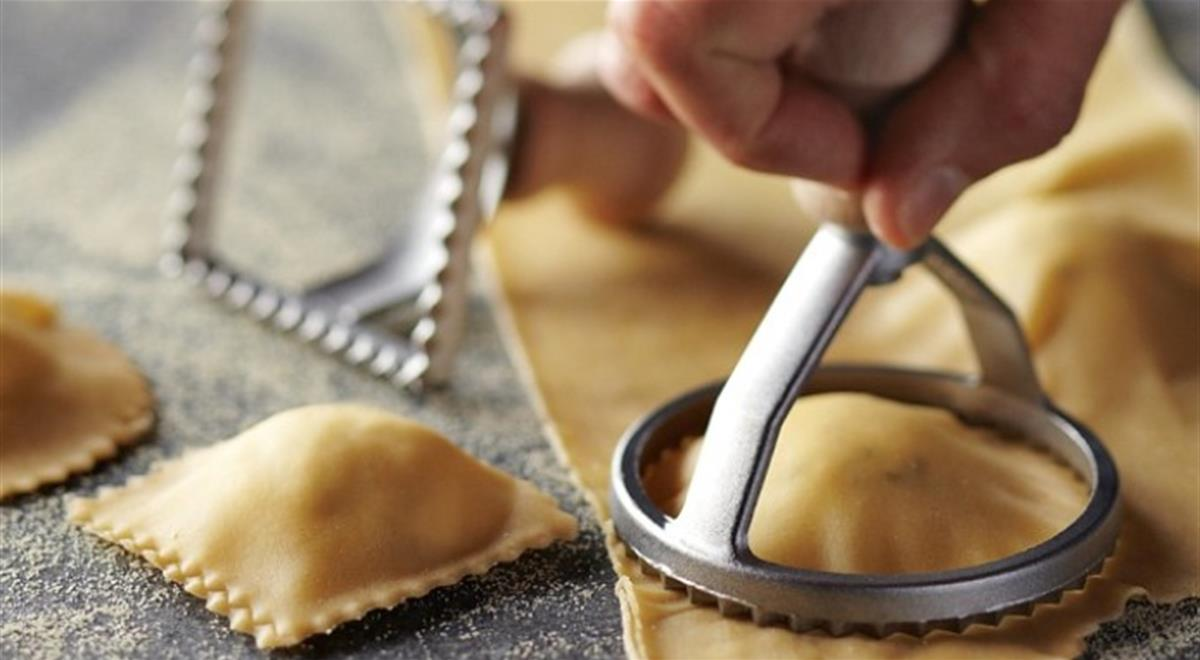
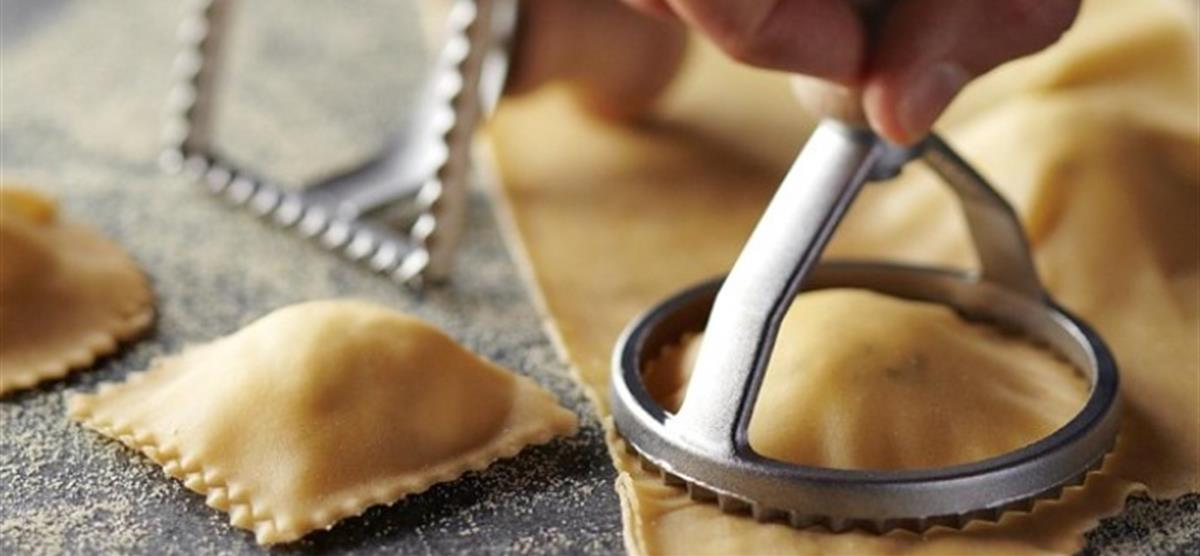
learn more image now full screen

diff --git a/css/learnmore.css b/css/learnmore.css
@@ -7,16 +7,15 @@
 
 @media only screen and (min-width : 771px){
     #learnmore-main{
-		width: 100vw;
-		height: 550px;
 		float: left;
-		overflow: hidden;
+		overflow-x: hidden;
+		width: 100vw;
 	}
 
 	#learnmore-title{
 		font-size: 3.8vw;
 		position: absolute;
-		top: 12vw;
+		top: 15vw;
 		left: 200px;
 		color: white;
 	}
@@ -24,7 +23,7 @@
 	#learnmore-subtitle{
 		position: absolute;
 		width: 500px;
-		top: 24vw;
+		top: 28vw;
 		left: 200px;
 		color:white;
 		font-size: 1.8vw;
@@ -32,8 +31,15 @@
 
 	button#signup-button{
 		position: absolute;
-		top: 35vw;
-		left: 350px;
+		top: 38vw;
+		left: 20vw;
+		text-align: center;
+	}
+
+	img#scroll-down{
+		position: absolute;
+		top: 90vh;
+		left: 0px;
 	}
 
 	#learnmore-features{
@@ -113,22 +119,22 @@
 
 	#learnmore-title{
 		width: 90vw;
-		font-size: 5.5vw;
+		font-size: 6.5vw;
 		position: absolute;
-		top: 18.6vw;
+		top: 36vh;
 		left: 5vw;
 		color: white;
 		text-align: center;
 	}
 
 	#learnmore-subtitle{
-		width: 60vw;
+		width:80vw;
 		text-align: center;
 		position: absolute;
-		top: 38vw;
-		left: 20vw;
+		top: 50vh;
+		left: 10vw;
 		color:white;
-		font-size: 3.5vw;
+		font-size: 4.4vw;
 	}
 
 	button#signup-button{
@@ -138,6 +144,13 @@
 		width: 60vw;
 		margin-left: 20vw;
 		font-size: 4vw;
+		display: none;
+	}
+
+	img#scroll-down{
+		/*display: none;*/
+		position: absolute;
+		top: 90vh;
 	}
 
 	#learnmore-features{
@@ -207,7 +220,7 @@
 		width: 90vw;
 		font-size: 5.5vw;
 		position: absolute;
-		top: 14vw;
+		top: 36vh;
 		left: 5vw;
 		color: white;
 		text-align: center;
@@ -217,10 +230,15 @@
 		width: 60vw;
 		text-align: center;
 		position: absolute;
-		top: 37vw;
+		top: 53vh;
 		left: 20vw;
 		color:white;
-		font-size: 3.5vw;
+		font-size: 3vw;
+	}
+
+	img#scroll-down{
+		position: absolute;
+		top: 90vh;
 	}
 
 	button#signup-button{

diff --git a/app/components/LearnMore.js b/app/components/LearnMore.js
@@ -114,21 +114,36 @@ export class LearnMore extends React.Component{
         this.template = LearnMoreTemplates[this.type];
     }
 
+    componentDidMount(){
+        window.addEventListener('resize', this.handleResize.bind(this));
+    }
+
+    componentWillUnmount(){
+        window.removeEventListener('resize', this.handleResize.bind(this));
+    }
+
+    handleResize(){
+        this.setState({});
+    }
+
     goToSignUp(){
         window.location.href = "http://www.foodloveservices.com/users/sign_up";
     }
 
     render(){
+        const portrait = window.innerWidth / window.innerHeight > 1.97 && !isMobile();
+
         return(
             <div>
                 <Nav collapsable={!isMobile()}/>
-                <div id="learnmore-main">
-                    <img src={this.template["main-image"]} width="100%" style={{opacity:'0.5'}}/>
+                <div id="learnmore-main" style={portrait ? {width: '100vw'} : {height: '100vh'}}>
+                    {!portrait ? <img src={this.template["main-image"]} height="100%" style={{opacity:'0.5'}}/> : <img src={this.template["main-image"]} width="100%" style={{opacity:'0.5'}}/>}
                     <div id="learnmore-title">{this.template["title"]}</div>
                     <div id="learnmore-subtitle">{this.template["subtitle"]}</div>
                     <button id="signup-button" className="btn btn-lg btn-success" onClick={this.goToSignUp}>
                         Sign Up as a {this.template["name"]}
                     </button>
+                    <img src="assets/arrow.svg" className="down-arrow-svg" id="scroll-down"/>
                 </div>
                 <div className="horizontal-spacer"></div>
                 <div id="learnmore-features">

diff --git a/app/components/Landing.js b/app/components/Landing.js
@@ -14,6 +14,7 @@ export const Landing = () => {
                 <img src={!isMobile() ? "assets/farmImage.jpg" : "assets/gallery-zoomin.png"} width="100%"/>
                 <div id="page-title-text" className="header-title">Uniting the local food community</div>
                 <div id="page-sub-title" className="header-title">One<span style={{color: '#DE1500'}}> byte</span> at a time.</div>
+                <img src="assets/arrow.svg" className="down-arrow-svg" id="main-scroll-down"/>
             </div>
             <div className="horizontal-spacer"/>
             <Bio/>

diff --git a/css/landing.css b/css/landing.css
@@ -13,13 +13,19 @@
     }
 
     #page-title-text{
-        top: calc(calc(100vw * 555) / 1281 / 2.5);
+        top: calc(100vw * 555 / 1281 / 2.5);
         font-size: 3.8vw;
     }
 
     #page-sub-title{
-        top: calc(calc(100vw * 555) / 1281 / 1.85);
+        top: calc(100vw * 555 / 1281 / 1.85);
         font-size: 2.6vw;
+    }
+
+    img#main-scroll-down{
+        position: absolute;
+        top: calc(100vw * 555 / 1281 / 1.1);
+        left: 0px;
     }
 
 

diff --git a/css/global.css b/css/global.css
@@ -18,8 +18,9 @@
     max-height: 50px;
     height: 10vw;
     width: 100vw;
-	position: fixed;
- 	bottom: 0;
+	position: relative;
+ 	bottom: 0px;
+ 	float: left;
 }
 
 @font-face {
@@ -66,6 +67,12 @@ body {
     float: left;
 /*    background-color: #232428;
 */}
+
+img.down-arrow-svg{
+	width: 100vw;
+	text-align: center;
+	height: 25px;
+}
 
 textarea, input {
 	border: none;
